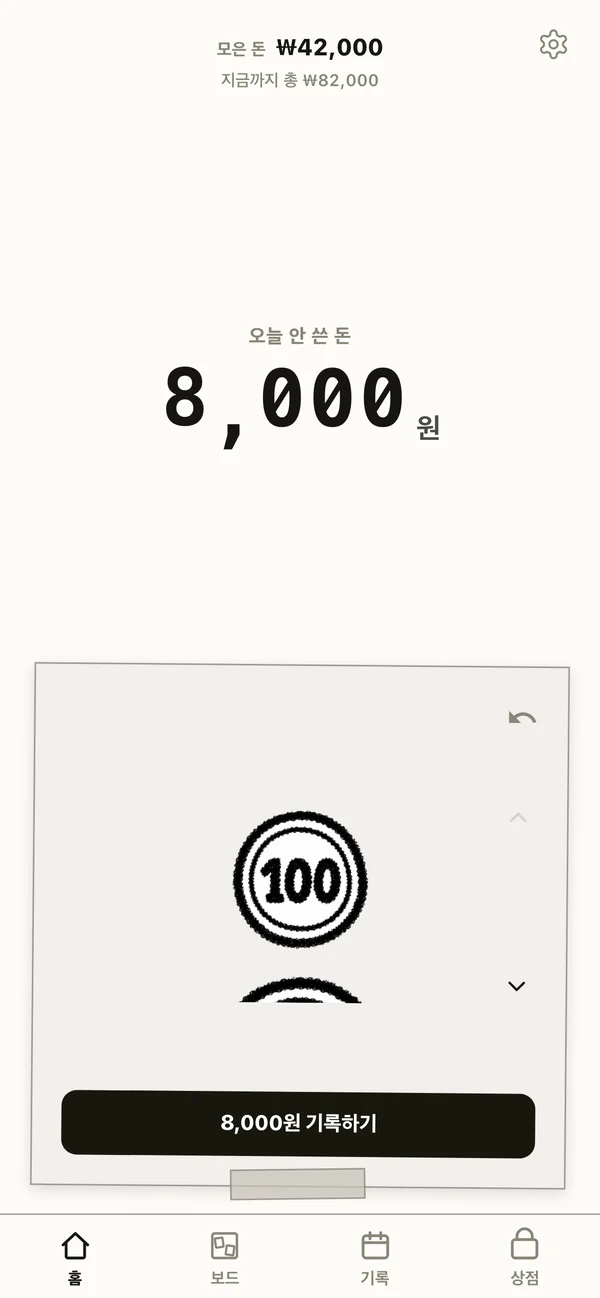
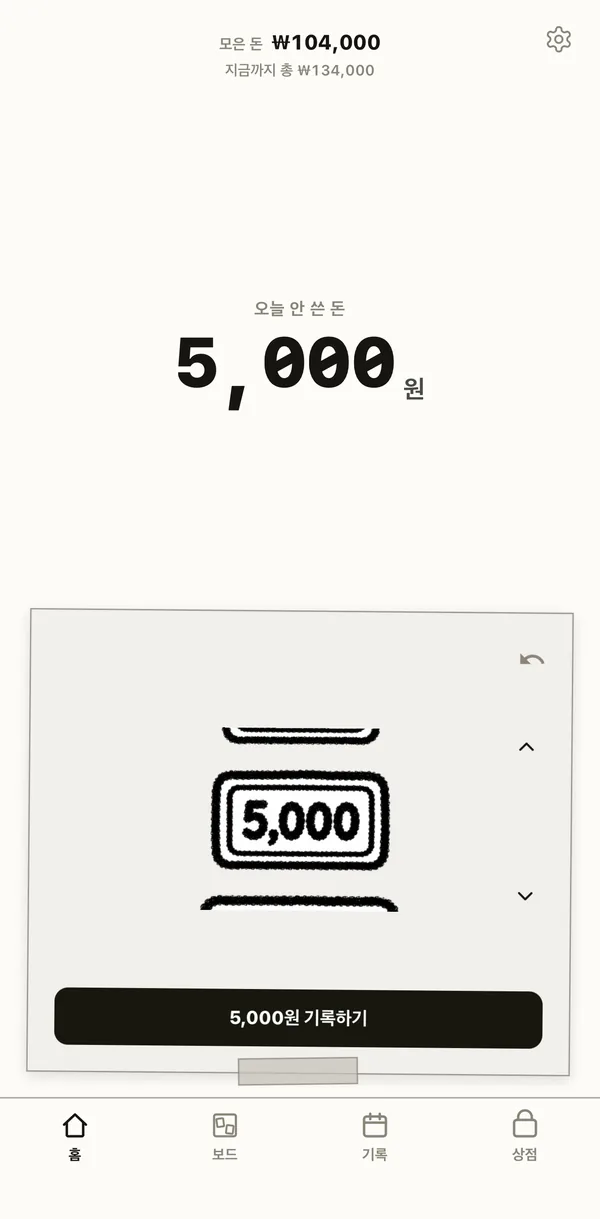
feat: 모아냥 사이트 스크린샷 7장으로 교체 (안경·밤냥 화면 추가)
- 옛 모자 상점 화면을 빼고 안경 탭·밤냥 소개·밤냥 꾸민 홈 화면을 추가
- 기존 4장도 최신 캡처로 다시 만듦 (상태바 제거, 600px webp)

diff --git a/ja/moanyang/index.html b/ja/moanyang/index.html
@@ -51,8 +51,8 @@
     </div>
   </aside>
   <div class="main">
-    <div class="shots"><figure class="shot" style="--rot:-1.5deg"><span class="tape"></span><img src="/assets/shots/moanyang-ja-entry.webp" alt="モアニャン" loading="lazy"></figure><figure class="shot" style="--rot:1.2deg"><span class="tape"></span><img src="/assets/shots/moanyang-ja-home.webp" alt="モアニャン" loading="lazy"></figure><figure class="shot" style="--rot:-0.8deg"><span class="tape"></span><img src="/assets/shots/moanyang-ja-detail.webp" alt="モアニャン" loading="lazy"></figure><figure class="shot" style="--rot:1.6deg"><span class="tape"></span><img src="/assets/shots/moanyang-ja-history.webp" alt="モアニャン" loading="lazy"></figure><figure class="shot" style="--rot:-1.2deg"><span class="tape"></span><img src="/assets/shots/moanyang-ja-shop.webp" alt="モアニャン" loading="lazy"></figure></div>
-    <div class="shots-nav"><button type="button" class="prev" aria-label="前の画面" disabled><svg viewBox="0 0 24 24" aria-hidden="true"><path d="M15 5l-7 7 7 7"/></svg></button><span class="count" aria-live="polite">1 / 5</span><button type="button" class="next" aria-label="次の画面"><svg viewBox="0 0 24 24" aria-hidden="true"><path d="M9 5l7 7-7 7"/></svg></button></div>
+    <div class="shots"><figure class="shot" style="--rot:-1.5deg"><span class="tape"></span><img src="/assets/shots/moanyang-ja-entry.webp" alt="モアニャン" loading="lazy"></figure><figure class="shot" style="--rot:1.2deg"><span class="tape"></span><img src="/assets/shots/moanyang-ja-home.webp" alt="モアニャン" loading="lazy"></figure><figure class="shot" style="--rot:-0.8deg"><span class="tape"></span><img src="/assets/shots/moanyang-ja-detail.webp" alt="モアニャン" loading="lazy"></figure><figure class="shot" style="--rot:1.6deg"><span class="tape"></span><img src="/assets/shots/moanyang-ja-history.webp" alt="モアニャン" loading="lazy"></figure><figure class="shot" style="--rot:-1.2deg"><span class="tape"></span><img src="/assets/shots/moanyang-ja-glasses.webp" alt="モアニャン" loading="lazy"></figure><figure class="shot" style="--rot:-1.5deg"><span class="tape"></span><img src="/assets/shots/moanyang-ja-cats.webp" alt="モアニャン" loading="lazy"></figure><figure class="shot" style="--rot:1.2deg"><span class="tape"></span><img src="/assets/shots/moanyang-ja-outfit.webp" alt="モアニャン" loading="lazy"></figure></div>
+    <div class="shots-nav"><button type="button" class="prev" aria-label="前の画面" disabled><svg viewBox="0 0 24 24" aria-hidden="true"><path d="M15 5l-7 7 7 7"/></svg></button><span class="count" aria-live="polite">1 / 7</span><button type="button" class="next" aria-label="次の画面"><svg viewBox="0 0 24 24" aria-hidden="true"><path d="M9 5l7 7-7 7"/></svg></button></div>
     <ul class="promise"><li><b>ログインなしですぐ使えます</b><span>会員登録もログインも不要です。最初の1枚は無料で変換できます。</span></li><li><b>記録はこの端末にだけ保存されます</b><span>たまったお金・日ごとの記録・ほしいものリストはサーバーに送りません。写真はドット絵に変換するときだけAIに送り、保存しません。</span></li><li><b>広告もサブスクもありません</b><span>フィルムパックは必要なときに1回だけ購入する方式です。定期課金はありません。</span></li></ul>
     <section class="faq"><h2>よくある質問</h2>
 <details><summary>記録はどこに保存されますか？</summary><p>たまったお金、日ごとの記録、ほしいものリストはすべてこの端末にのみ保存されます。サーバーには送られないため、アプリを削除すると記録も消えます。アプリの削除や機種変更の前に<b>設定 → バックアップファイルを作る</b>でファイルを保存しておけば、そのファイルからいつでも戻せます。</p></details>

diff --git a/moanyang/index.html b/moanyang/index.html
@@ -51,8 +51,8 @@
     </div>
   </aside>
   <div class="main">
-    <div class="shots"><figure class="shot" style="--rot:-1.5deg"><span class="tape"></span><img src="/assets/shots/moanyang-ko-entry.webp" alt="모아냥" loading="lazy"></figure><figure class="shot" style="--rot:1.2deg"><span class="tape"></span><img src="/assets/shots/moanyang-ko-home.webp" alt="모아냥" loading="lazy"></figure><figure class="shot" style="--rot:-0.8deg"><span class="tape"></span><img src="/assets/shots/moanyang-ko-detail.webp" alt="모아냥" loading="lazy"></figure><figure class="shot" style="--rot:1.6deg"><span class="tape"></span><img src="/assets/shots/moanyang-ko-history.webp" alt="모아냥" loading="lazy"></figure><figure class="shot" style="--rot:-1.2deg"><span class="tape"></span><img src="/assets/shots/moanyang-ko-shop.webp" alt="모아냥" loading="lazy"></figure></div>
-    <div class="shots-nav"><button type="button" class="prev" aria-label="이전 화면" disabled><svg viewBox="0 0 24 24" aria-hidden="true"><path d="M15 5l-7 7 7 7"/></svg></button><span class="count" aria-live="polite">1 / 5</span><button type="button" class="next" aria-label="다음 화면"><svg viewBox="0 0 24 24" aria-hidden="true"><path d="M9 5l7 7-7 7"/></svg></button></div>
+    <div class="shots"><figure class="shot" style="--rot:-1.5deg"><span class="tape"></span><img src="/assets/shots/moanyang-ko-entry.webp" alt="모아냥" loading="lazy"></figure><figure class="shot" style="--rot:1.2deg"><span class="tape"></span><img src="/assets/shots/moanyang-ko-home.webp" alt="모아냥" loading="lazy"></figure><figure class="shot" style="--rot:-0.8deg"><span class="tape"></span><img src="/assets/shots/moanyang-ko-detail.webp" alt="모아냥" loading="lazy"></figure><figure class="shot" style="--rot:1.6deg"><span class="tape"></span><img src="/assets/shots/moanyang-ko-history.webp" alt="모아냥" loading="lazy"></figure><figure class="shot" style="--rot:-1.2deg"><span class="tape"></span><img src="/assets/shots/moanyang-ko-glasses.webp" alt="모아냥" loading="lazy"></figure><figure class="shot" style="--rot:-1.5deg"><span class="tape"></span><img src="/assets/shots/moanyang-ko-cats.webp" alt="모아냥" loading="lazy"></figure><figure class="shot" style="--rot:1.2deg"><span class="tape"></span><img src="/assets/shots/moanyang-ko-outfit.webp" alt="모아냥" loading="lazy"></figure></div>
+    <div class="shots-nav"><button type="button" class="prev" aria-label="이전 화면" disabled><svg viewBox="0 0 24 24" aria-hidden="true"><path d="M15 5l-7 7 7 7"/></svg></button><span class="count" aria-live="polite">1 / 7</span><button type="button" class="next" aria-label="다음 화면"><svg viewBox="0 0 24 24" aria-hidden="true"><path d="M9 5l7 7-7 7"/></svg></button></div>
     <ul class="promise"><li><b>로그인 없이 바로 써요</b><span>가입도 로그인도 없이 시작해요. 처음 한 장은 무료로 변환해 볼 수 있어요.</span></li><li><b>기록은 내 폰에만 저장돼요</b><span>모은 돈, 날짜별 기록, 물건 목록은 서버로 보내지 않아요. 사진은 픽셀 그림으로 바꿀 때만 AI에 보내고 저장하지 않아요.</span></li><li><b>광고도 구독도 없어요</b><span>필름 팩은 필요할 때 한 번만 사는 방식이에요. 정기 결제는 없어요.</span></li></ul>
     <section class="faq"><h2>자주 묻는 질문</h2>
 <details><summary>기록은 어디에 저장되나요?</summary><p>모은 돈, 날짜별 기록, 물건 목록은 모두 내 기기에만 저장돼요. 서버에는 보내지 않아서 앱을 삭제하면 기록도 함께 사라져요. 앱을 지우거나 폰을 바꾸기 전에 <b>설정 → 백업 파일 만들기</b>로 파일을 저장해 두면, 그 파일로 언제든 되살릴 수 있어요.</p></details>

diff --git a/en/moanyang/index.html b/en/moanyang/index.html
@@ -51,8 +51,8 @@
     </div>
   </aside>
   <div class="main">
-    <div class="shots"><figure class="shot" style="--rot:-1.5deg"><span class="tape"></span><img src="/assets/shots/moanyang-en-entry.webp" alt="MoaNyang" loading="lazy"></figure><figure class="shot" style="--rot:1.2deg"><span class="tape"></span><img src="/assets/shots/moanyang-en-home.webp" alt="MoaNyang" loading="lazy"></figure><figure class="shot" style="--rot:-0.8deg"><span class="tape"></span><img src="/assets/shots/moanyang-en-detail.webp" alt="MoaNyang" loading="lazy"></figure><figure class="shot" style="--rot:1.6deg"><span class="tape"></span><img src="/assets/shots/moanyang-en-history.webp" alt="MoaNyang" loading="lazy"></figure><figure class="shot" style="--rot:-1.2deg"><span class="tape"></span><img src="/assets/shots/moanyang-en-shop.webp" alt="MoaNyang" loading="lazy"></figure></div>
-    <div class="shots-nav"><button type="button" class="prev" aria-label="Previous screenshot" disabled><svg viewBox="0 0 24 24" aria-hidden="true"><path d="M15 5l-7 7 7 7"/></svg></button><span class="count" aria-live="polite">1 / 5</span><button type="button" class="next" aria-label="Next screenshot"><svg viewBox="0 0 24 24" aria-hidden="true"><path d="M9 5l7 7-7 7"/></svg></button></div>
+    <div class="shots"><figure class="shot" style="--rot:-1.5deg"><span class="tape"></span><img src="/assets/shots/moanyang-en-entry.webp" alt="MoaNyang" loading="lazy"></figure><figure class="shot" style="--rot:1.2deg"><span class="tape"></span><img src="/assets/shots/moanyang-en-home.webp" alt="MoaNyang" loading="lazy"></figure><figure class="shot" style="--rot:-0.8deg"><span class="tape"></span><img src="/assets/shots/moanyang-en-detail.webp" alt="MoaNyang" loading="lazy"></figure><figure class="shot" style="--rot:1.6deg"><span class="tape"></span><img src="/assets/shots/moanyang-en-history.webp" alt="MoaNyang" loading="lazy"></figure><figure class="shot" style="--rot:-1.2deg"><span class="tape"></span><img src="/assets/shots/moanyang-en-glasses.webp" alt="MoaNyang" loading="lazy"></figure><figure class="shot" style="--rot:-1.5deg"><span class="tape"></span><img src="/assets/shots/moanyang-en-cats.webp" alt="MoaNyang" loading="lazy"></figure><figure class="shot" style="--rot:1.2deg"><span class="tape"></span><img src="/assets/shots/moanyang-en-outfit.webp" alt="MoaNyang" loading="lazy"></figure></div>
+    <div class="shots-nav"><button type="button" class="prev" aria-label="Previous screenshot" disabled><svg viewBox="0 0 24 24" aria-hidden="true"><path d="M15 5l-7 7 7 7"/></svg></button><span class="count" aria-live="polite">1 / 7</span><button type="button" class="next" aria-label="Next screenshot"><svg viewBox="0 0 24 24" aria-hidden="true"><path d="M9 5l7 7-7 7"/></svg></button></div>
     <ul class="promise"><li><b>Use it without logging in</b><span>No sign-up, no login. Your first conversion is free.</span></li><li><b>Your records stay on your phone</b><span>Your savings, daily log and wish list are never sent to a server. A photo goes to AI only while it’s turned into pixel art, and isn’t stored.</span></li><li><b>No ads, no subscriptions</b><span>Buy a film pack once, only when you need it. No recurring charges.</span></li></ul>
     <section class="faq"><h2>FAQ</h2>
 <details><summary>Where are my records stored?</summary><p>Your savings, daily log, and wish list are stored only on this device. They aren’t sent to a server, so deleting the app deletes them too. Before deleting the app or switching phones, save a file with <b>Settings → Make a backup file</b> — you can restore from it anytime.</p></details>

diff --git a/build.py b/build.py
@@ -85,7 +85,7 @@ APPS = [
               how='Open your book and take a photo — the passage is recognized and written out for you. Sort your shelf into to-read, reading and finished, and keep notes and even a character map for each book. Every book you add brings one more cat to your cat tower.',
               note='The app is available in Korean, English and Japanese.')),
  dict(slug='moanyang', en_name='MoaNyang', icon='assets/moanyang.png', poster='#ece8de',
-      shots={l: [f'assets/shots/moanyang-{l}-{t}.webp' for t in ('entry', 'home', 'detail', 'history', 'shop')] for l in LANGS},
+      shots={l: [f'assets/shots/moanyang-{l}-{t}.webp' for t in ('entry', 'home', 'detail', 'history', 'glasses', 'cats', 'outfit')] for l in LANGS},
       promise={
         'ko': [('로그인 없이 바로 써요', '가입도 로그인도 없이 시작해요. 처음 한 장은 무료로 변환해 볼 수 있어요.'), ('기록은 내 폰에만 저장돼요', '모은 돈, 날짜별 기록, 물건 목록은 서버로 보내지 않아요. 사진은 픽셀 그림으로 바꿀 때만 AI에 보내고 저장하지 않아요.'), ('광고도 구독도 없어요', '필름 팩은 필요할 때 한 번만 사는 방식이에요. 정기 결제는 없어요.')],
         'ja': [('ログインなしですぐ使えます', '会員登録もログインも不要です。最初の1枚は無料で変換できます。'), ('記録はこの端末にだけ保存されます', 'たまったお金・日ごとの記録・ほしいものリストはサーバーに送りません。写真はドット絵に変換するときだけAIに送り、保存しません。'), ('広告もサブスクもありません', 'フィルムパックは必要なときに1回だけ購入する方式です。定期課金はありません。')],
